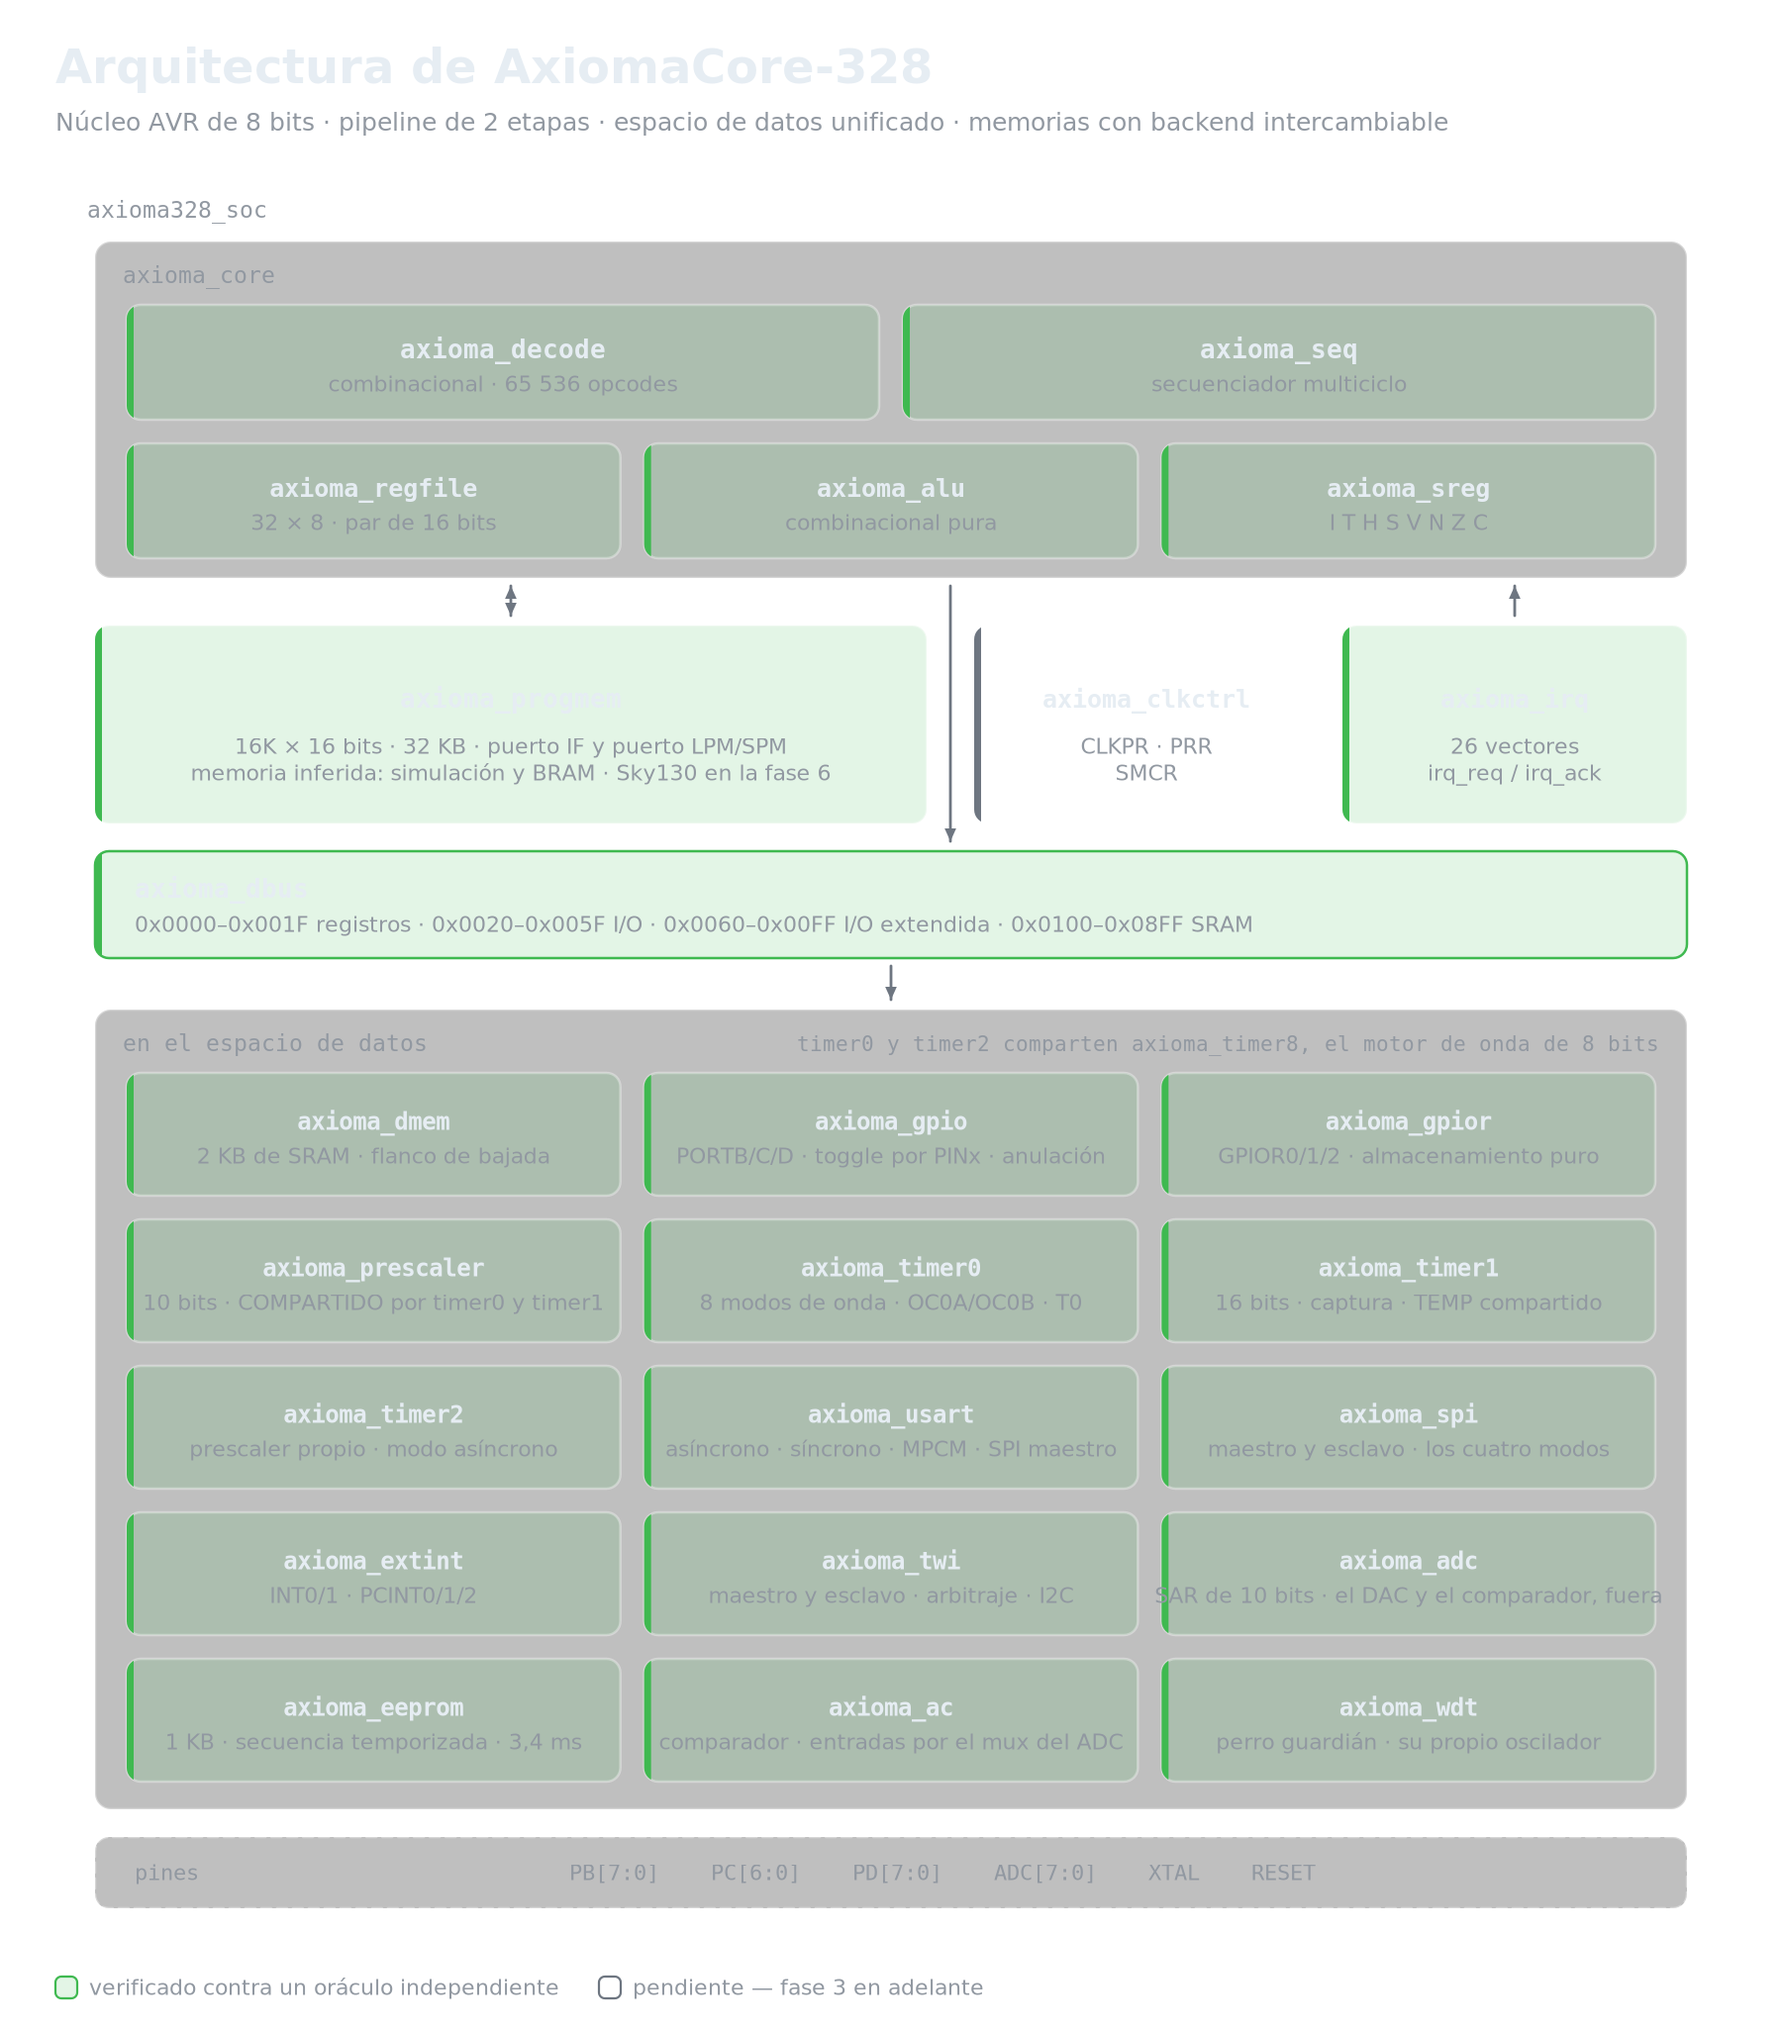
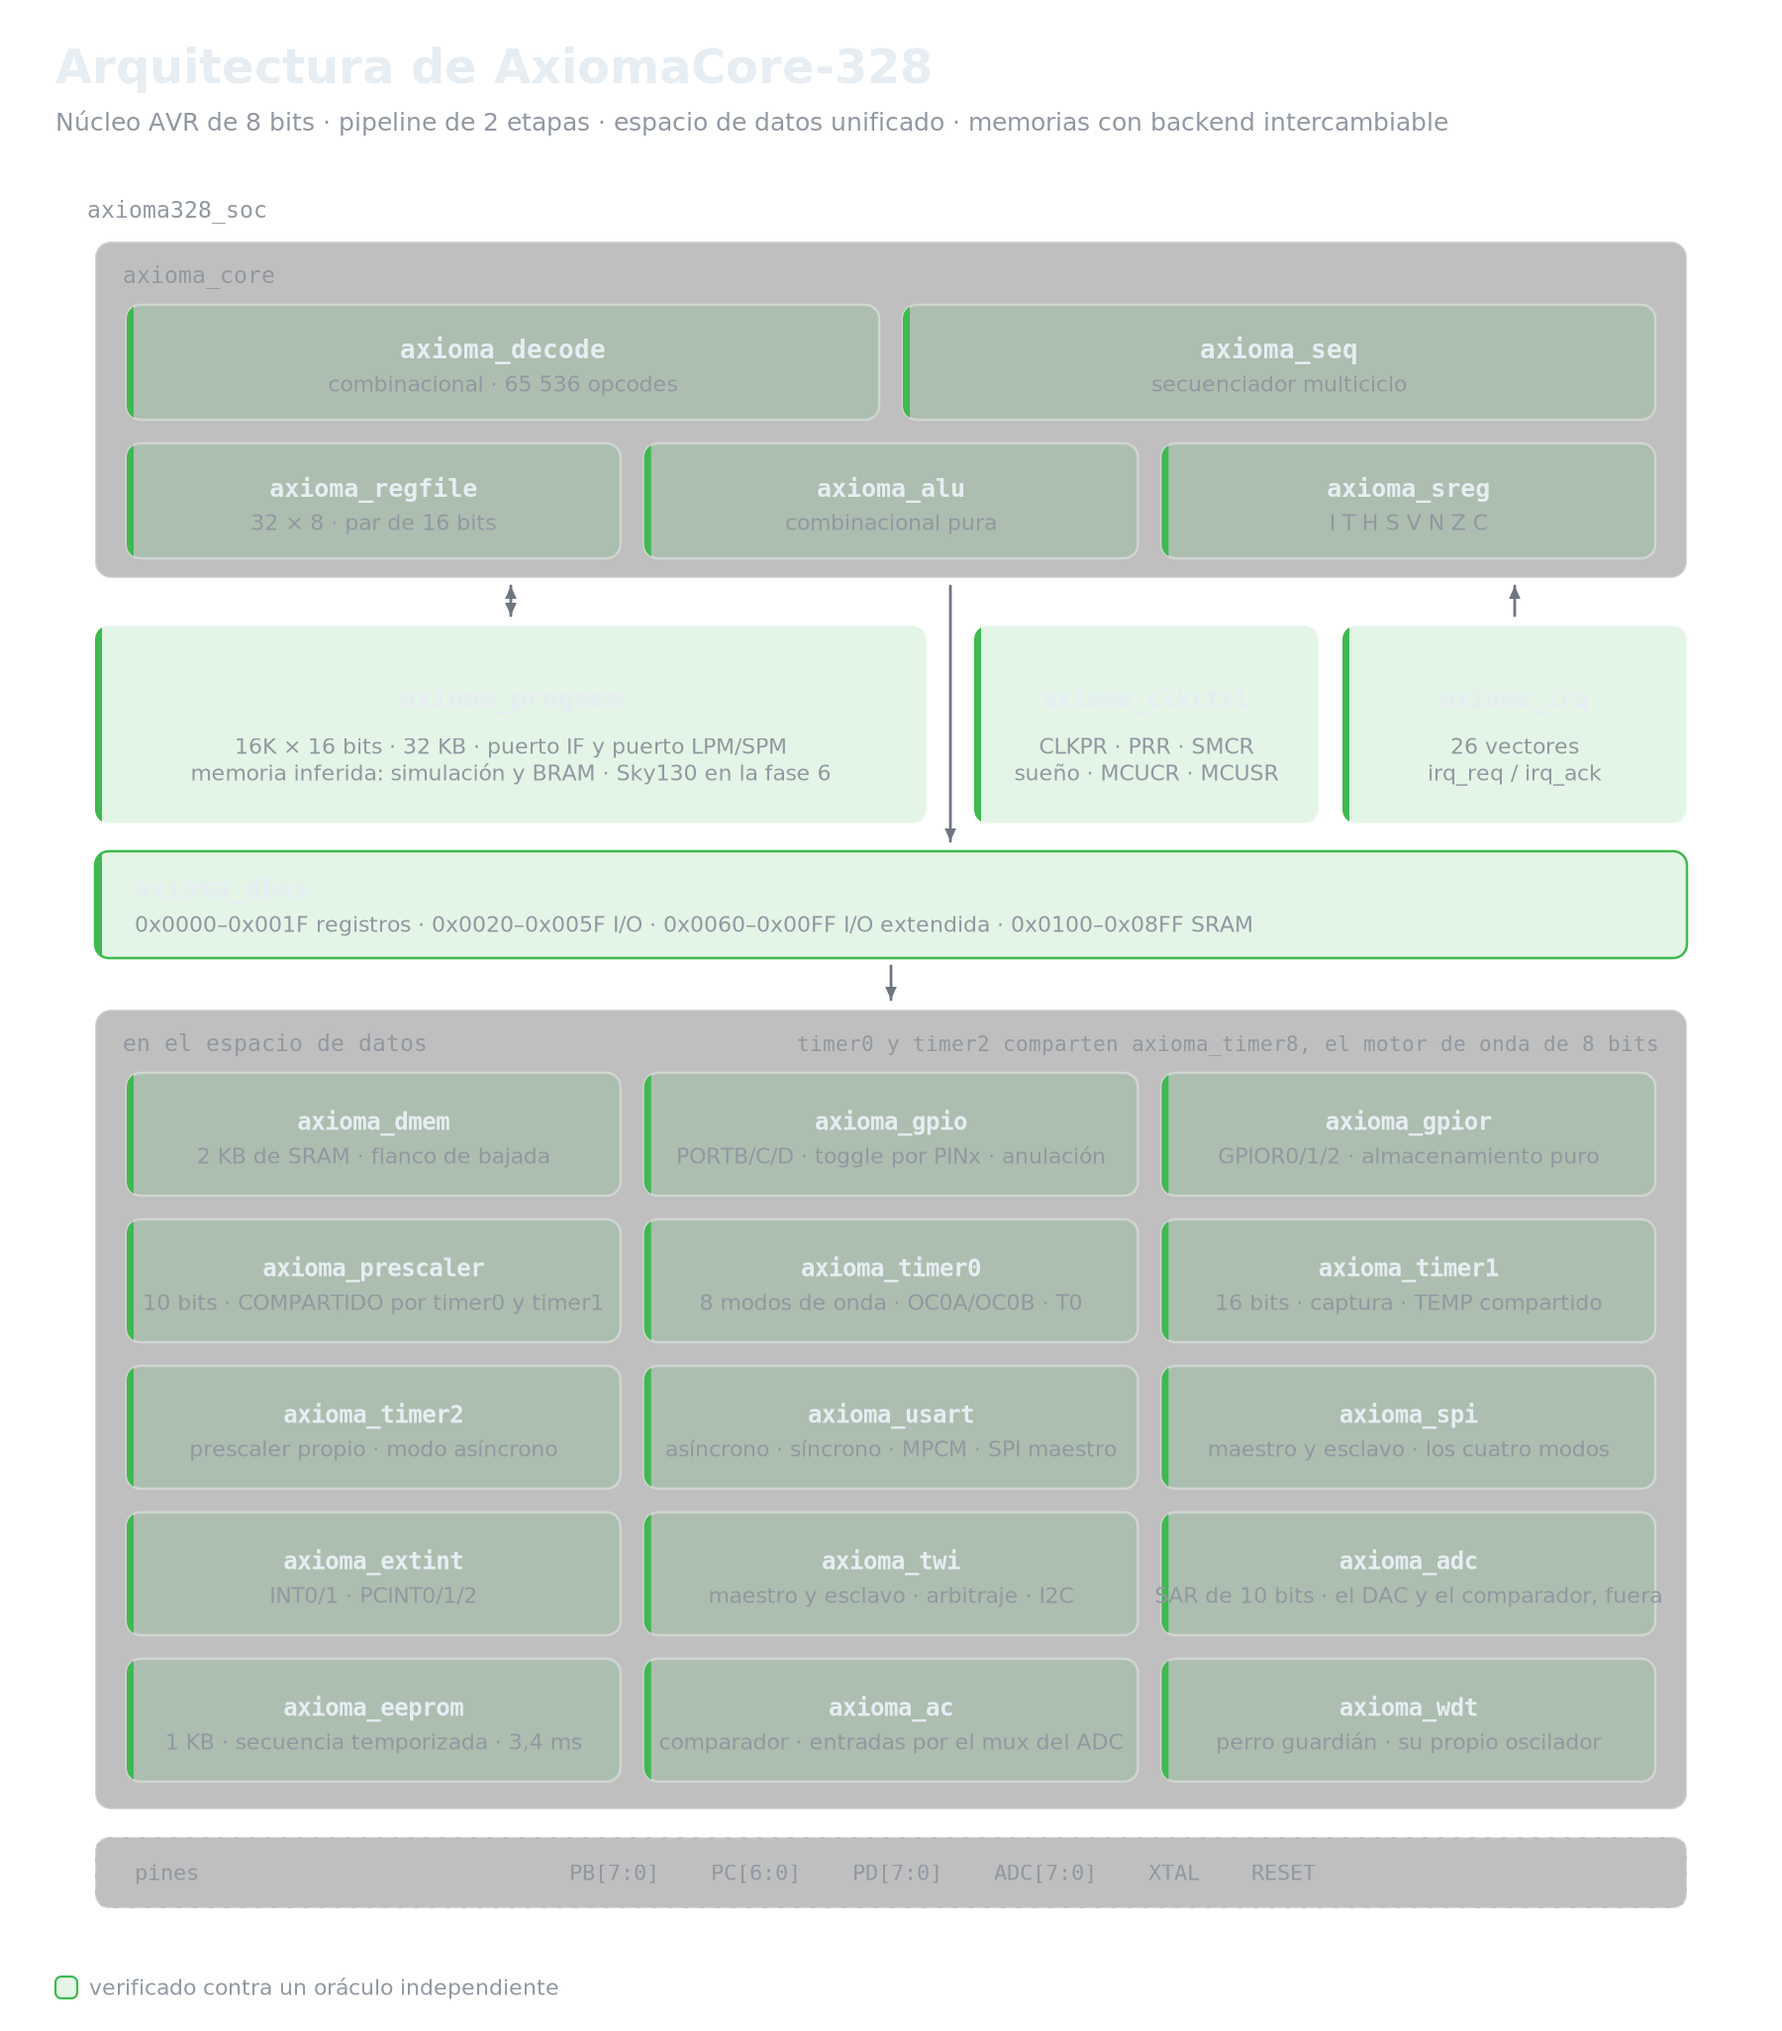
build: `make check-all` funciona desde un clon limpio
Verificar el estado publicado clonandolo y ejecutandolo encontro un fallo
que ninguna puerta podia ver: `make check-all` fallaba LOS CUARENTA Y DOS
OBJETIVOS a la vez con «No such file or directory».

La regresion escribe el registro de cada objetivo en `build/` ANTES de
que ninguno haya corrido, y en un arbol recien clonado ese directorio
todavia no existe: lo crean los objetivos al compilar. En este arbol
lleva meses ahi, asi que el fallo era invisible desde dentro. Y es el
PRIMER comando que ejecuta quien acaba de clonar el repositorio.

Arreglado con un `mkdir -p`, y vuelto a verificar desde el clon: 42/42 en
verde. Queda escrito en 03-verificacion.md como lo que es, una puerta que
solo se ve desde fuera.

Y DOS AFIRMACIONES DEL README QUE SE CONTRADECIAN CON EL PROPIO README.

El encabezado decia «validado en FPGA y preparado para tape-out en un PDK
abierto». No es cierto: el bitstream se genera y cierra timing, pero
nunca ha corrido en una placa, y la fase 6 no ha empezado. El mismo
documento fija la regla —«si no hay un comando que lo demuestre, no se
afirma»— unas lineas mas abajo, y explica que una version anterior
describia un diseño terminado que no existia. Se dice lo que hay, y se
dice tambien que decia otra cosa.

Y el diagrama de arquitectura marcaba `axioma_clkctrl` como PENDIENTE
cuando lleva verificado desde este mismo dia, con el README diciendo dos
parrafos antes que los colores de esa figura no son decorativos. Corregido
[…]

Changed region(s): [[0.5289, 0.2807, 0.7467, 0.4055]]

diff --git a/tools/gen_diagrams.py b/tools/gen_diagrams.py
@@ -160,7 +160,7 @@ def fig_soc(t):
           ["16K × 16 bits · 32 KB · puerto IF y puerto LPM/SPM",
            "memoria inferida: simulación y BRAM · Sky130 en la fase 6"], OK)
     block(c, 492, RY, 174, RH, "axioma_clkctrl",
-          ["CLKPR · PRR", "SMCR"], TODO, title_size=12.5)
+          ["CLKPR · PRR · SMCR", "sueño · MCUCR · MCUSR"], OK, title_size=12.5)
     block(c, 678, RY, 174, RH, "axioma_irq",
           ["26 vectores", "irq_req / irq_ack"], OK, title_size=12.5)
 
@@ -206,10 +206,15 @@ def fig_soc(t):
            "PB[7:0]    PC[6:0]    PD[7:0]    ADC[7:0]    XTAL    RESET",
            11, colour=t["muted"], mono=True, align="centerm")
 
-    # La leyenda sólo lista los estados que la figura USA. Ahora mismo no hay
-    # ningún bloque a medio verificar; el día que lo haya, PARTIAL vuelve aquí.
-    legend(c, M, LEG_Y, [(OK, "verificado contra un oráculo independiente"),
-                       (TODO, "pendiente — fase 3 en adelante")])
+    # La leyenda sólo lista los estados que la figura USA, y desde que el
+    # control de reloj entró NO QUEDA NINGUNO PENDIENTE: todos los bloques
+    # dibujados están contrastados contra un oráculo independiente. Listar
+    # «pendiente» cuando no hay nada pendiente es decorar, que es justo lo que
+    # el README promete que esta figura no hace.
+    #
+    # El día que vuelva a haber un bloque a medias, PARTIAL o TODO vuelven aquí
+    # con él.
+    legend(c, M, LEG_Y, [(OK, "verificado contra un oráculo independiente")])
     return c
 
 

diff --git a/README.md b/README.md
@@ -4,8 +4,13 @@
 
 **Microcontrolador de 8 bits, libre y abierto, compatible a nivel binario con el ATmega328P.**
 
-Diseñado íntegramente con herramientas libres, verificado contra oráculos independientes,
-validado en FPGA y preparado para tape-out en un PDK abierto.
+Diseñado íntegramente con herramientas libres y verificado contra oráculos independientes.
+**Sintetiza y cierra timing en FPGA**; falta enchufar la placa. El tape-out en un PDK abierto es
+la fase 6 y no ha empezado.
+
+*Este encabezado decía «validado en FPGA y preparado para tape-out». No era cierto —el bitstream se
+genera y cierra timing, pero nunca ha corrido en una placa— y contradecía la regla que este mismo
+documento fija: si no hay un comando que lo demuestre, no se afirma.*
 
 [![CI](https://github.com/TadeoRoboticsGroup/AxiomaCore-328/actions/workflows/ci.yml/badge.svg)](https://github.com/TadeoRoboticsGroup/AxiomaCore-328/actions/workflows/ci.yml)
 [![Licencia](https://img.shields.io/badge/Licencia-Apache--2.0-blue)](LICENSE)
@@ -32,7 +37,10 @@ De esa interfaz hay hoy **una implementación**: memoria inferida, que vale para
 síntesis mapea a BRAM; la de Sky130 es de la fase 6.
 
 Los colores del diagrama no son decorativos: marcan qué está contrastado contra un oráculo
-independiente y qué no. Ése es el criterio con el que se mide este proyecto.
+independiente y qué no. Ése es el criterio con el que se mide este proyecto — y desde que entró el
+control de reloj **no queda ningún bloque pendiente en la figura**, así que la leyenda ya sólo
+tiene una fila. Lo que falta del chip no es un bloque sin hacer: es el gestor de arranque de la
+fase 4 y el silicio de la 6.
 
 ---
 

diff --git a/docs/03-verificacion.md b/docs/03-verificacion.md
@@ -452,6 +452,21 @@ La cuarta pata nació de un mutante superviviente, y la lección es la de siempr
 contaba los tics del oscilador **por fuera del chip**, y eso no prueba nada —los tics están ahí
 igual; la pregunta es si el perro los usa—. Medir el mordisco sí lo prueba.
 
+### Y una puerta que sólo se ve desde fuera: clonar y ejecutar
+
+Todas las puertas de arriba corren en **este** árbol, que lleva meses de `build/` acumulado,
+variables de entorno puestas y ficheros generados de una ejecución anterior. Eso las hace ciegas a
+una clase entera de fallo: **lo que le pasa a quien clona el repositorio y ejecuta el comando**.
+
+No es hipotético. Al verificar el estado publicado desde un clon limpio, `make check-all` falló
+**los cuarenta y dos objetivos a la vez** con «No such file or directory»: la regresión escribe el
+registro de cada objetivo en `build/` **antes** de que ningún objetivo haya corrido, y en un árbol
+recién clonado ese directorio todavía no existe. Los objetivos lo crean al compilar; la regresión lo
+necesitaba antes.
+
+No rompía nada del chip, y por eso ninguna puerta lo veía. Pero es el primer comando que ejecuta un
+tercero, y fallaba entero.
+
 ### El barrido de direcciones I2C, con un esclavo de verdad
 
 La tercera cláusula del criterio de aceptación, y está bien elegida porque es la prueba que más
